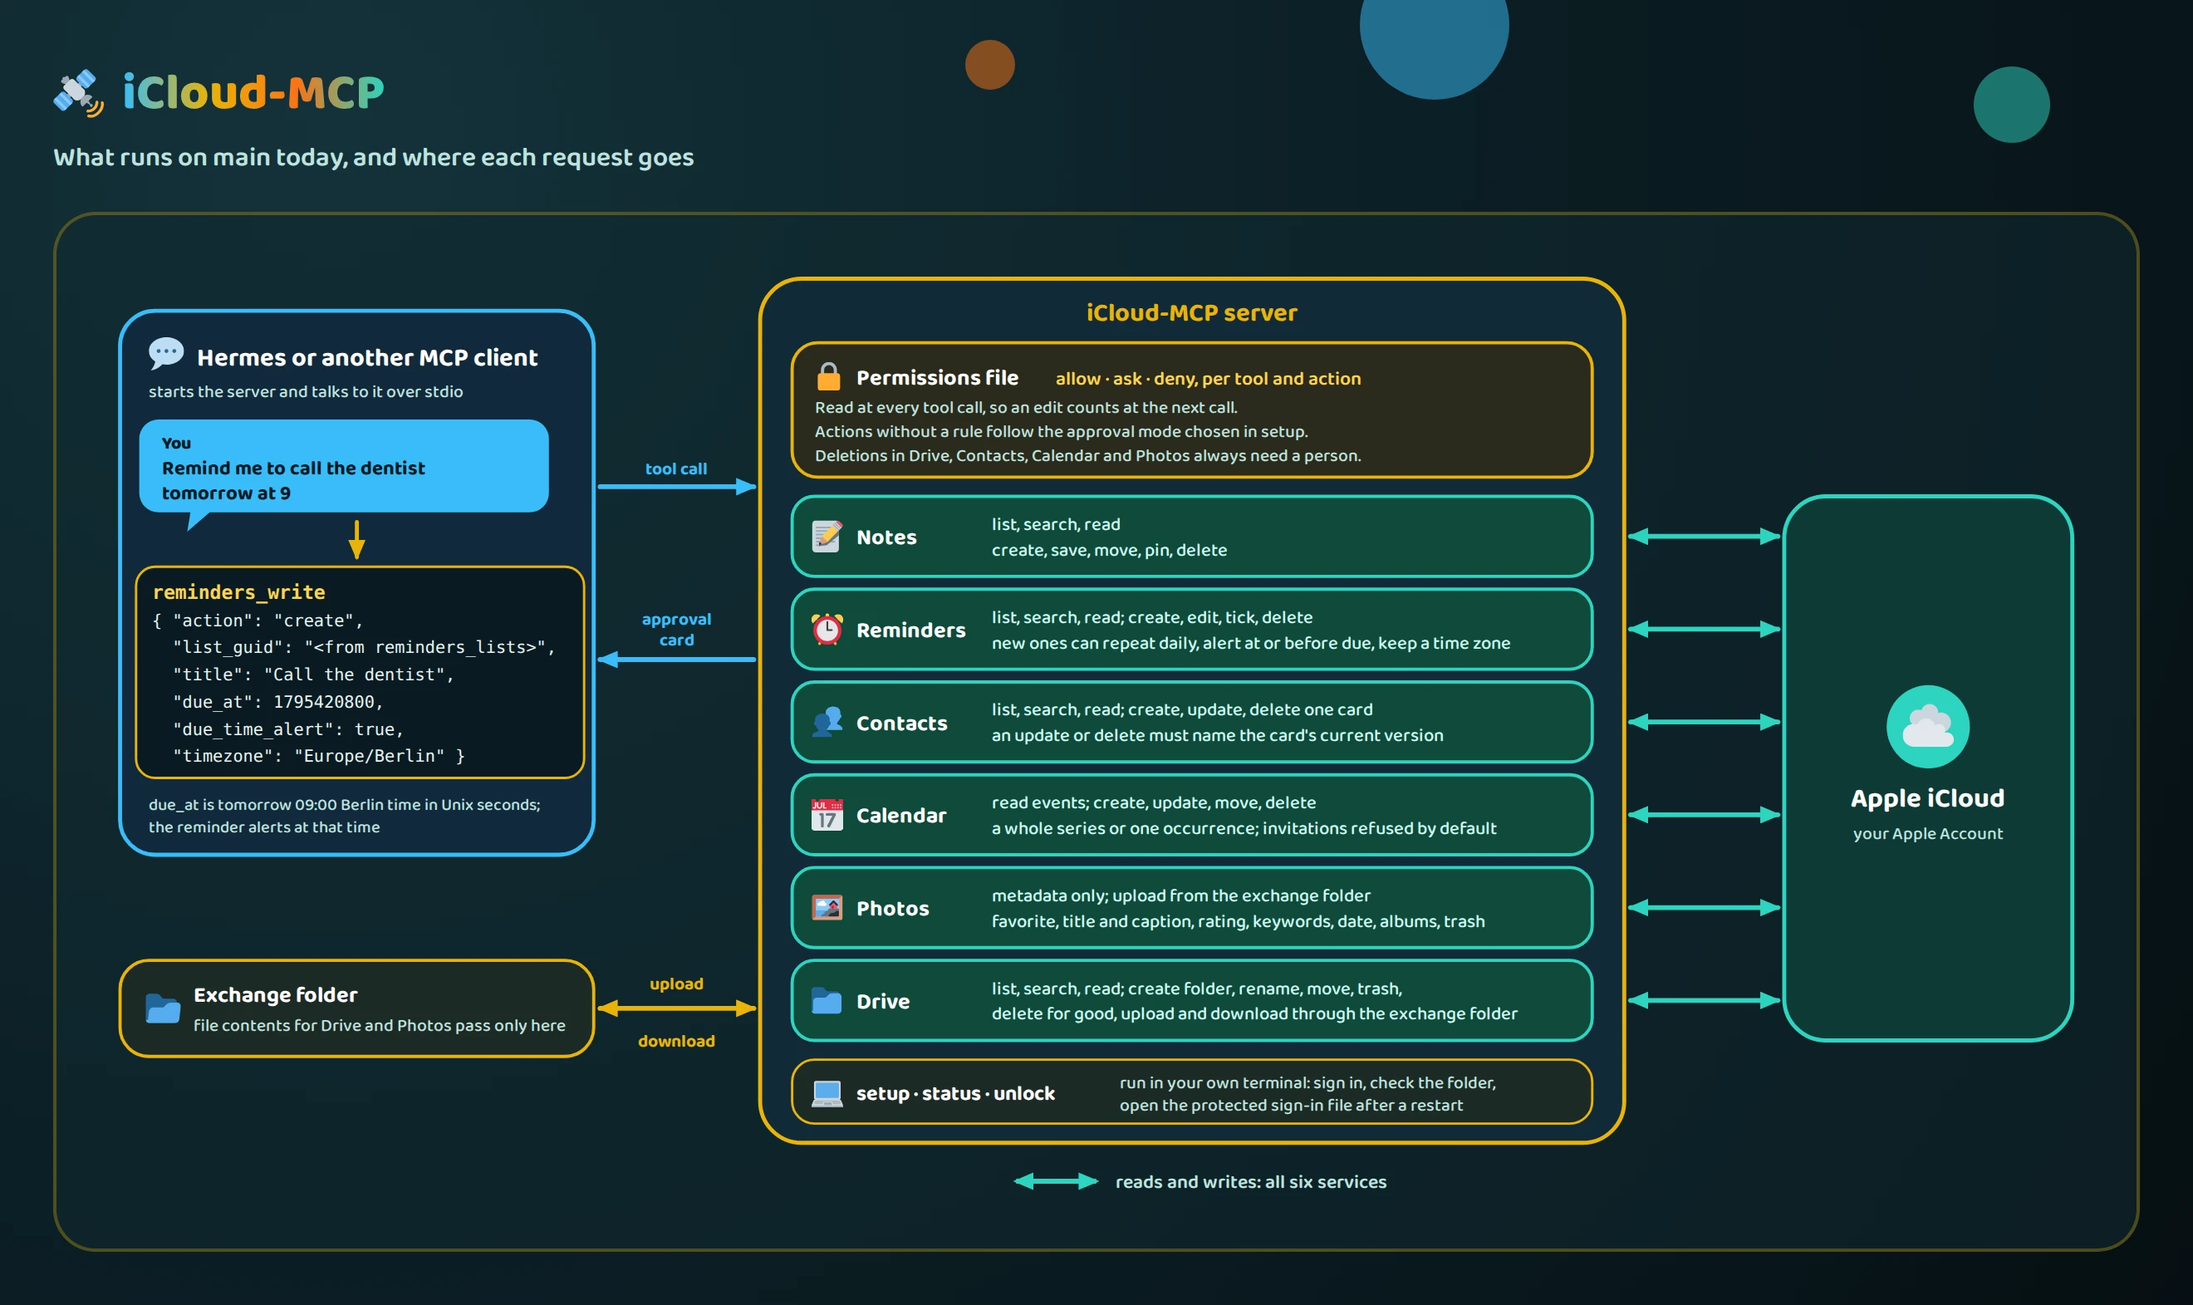
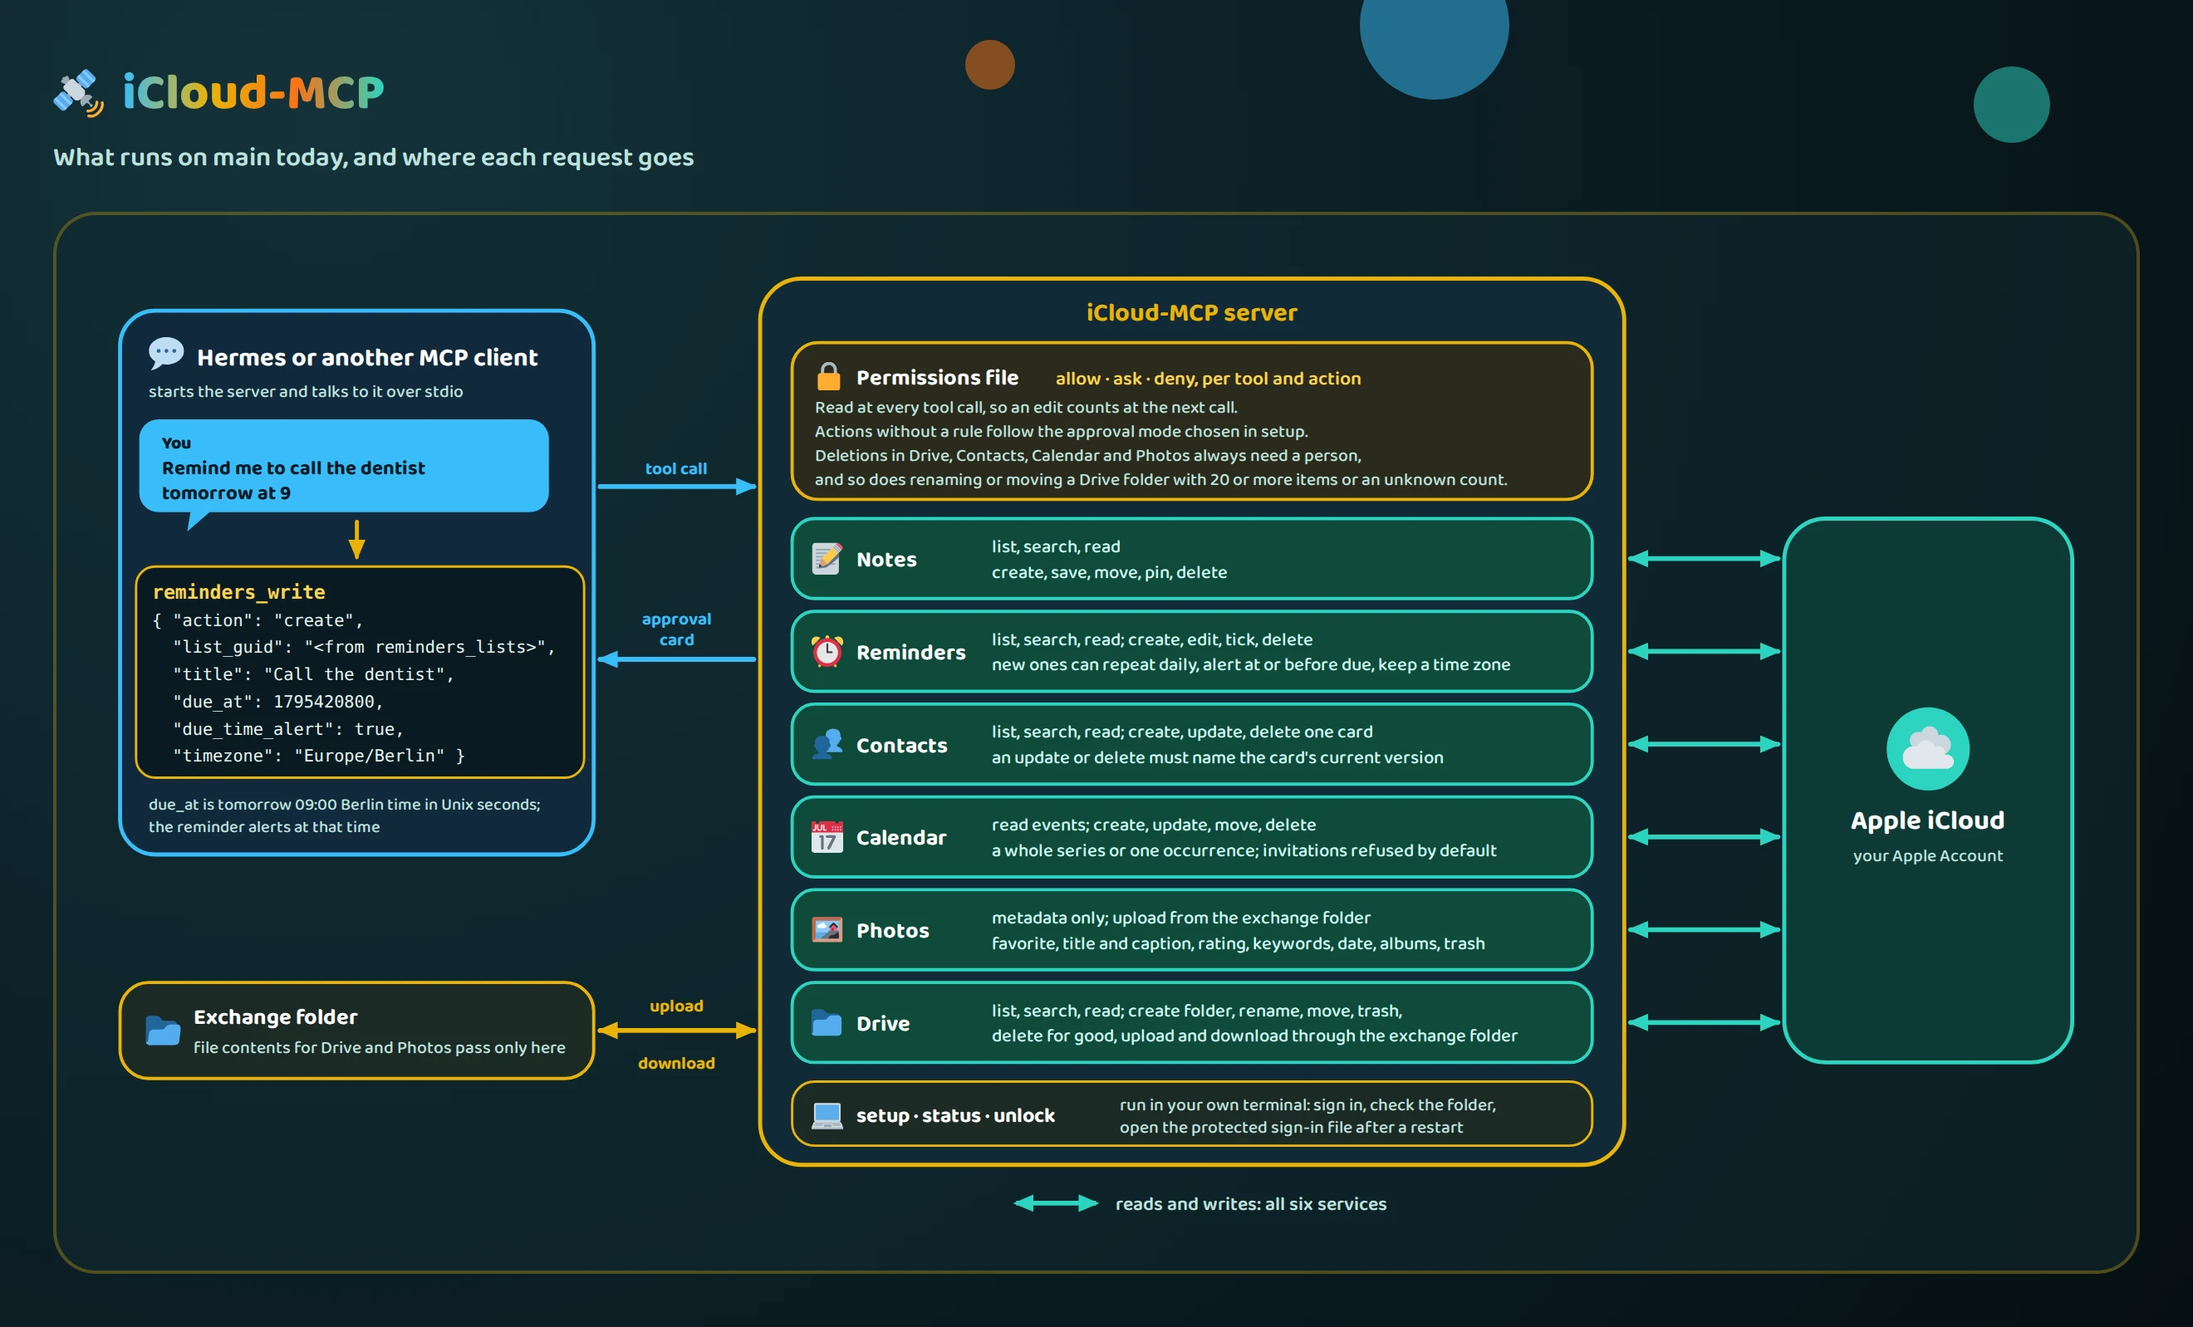
Diagram: renaming or moving a large Drive folder also needs a person

diff --git a/crates/skykeep-mcp/docs/architecture.html b/crates/skykeep-mcp/docs/architecture.html
@@ -45,7 +45,7 @@
     <p class="subtitle">What runs on main today, and where each request goes</p>
 
     <div class="diagram-container">
-      <svg viewBox="0 0 1260 606">
+      <svg viewBox="0 0 1260 620">
         <defs>
           <marker id="a-sky" markerUnits="userSpaceOnUse" markerWidth="13" markerHeight="11" refX="11" refY="5.5" orient="auto-start-reverse"><polygon points="0 0,13 5.5,0 11" fill="#38bdf8"/></marker>
           <marker id="a-teal" markerUnits="userSpaceOnUse" markerWidth="13" markerHeight="11" refX="11" refY="5.5" orient="auto-start-reverse"><polygon points="0 0,13 5.5,0 11" fill="#2dd4bf"/></marker>
@@ -82,10 +82,10 @@
 
         <!-- Exchange folder -->
         <g>
-          <rect x="20" y="446" width="296" height="60" rx="18" fill="#1d2a26" stroke="#eab308" stroke-width="2"/>
-          <image href="https://cdn.jsdelivr.net/gh/jdecked/twemoji@15.1.0/assets/svg/1f4c2.svg" x="36" y="465" width="22" height="22"/>
-          <text x="66" y="472" fill="white" font-size="14" font-weight="700">Exchange folder</text>
-          <text x="66" y="490" fill="#bfe3df" font-size="11">file contents for Drive and Photos pass only here</text>
+          <rect x="20" y="460" width="296" height="60" rx="18" fill="#1d2a26" stroke="#eab308" stroke-width="2"/>
+          <image href="https://cdn.jsdelivr.net/gh/jdecked/twemoji@15.1.0/assets/svg/1f4c2.svg" x="36" y="479" width="22" height="22"/>
+          <text x="66" y="486" fill="white" font-size="14" font-weight="700">Exchange folder</text>
+          <text x="66" y="504" fill="#bfe3df" font-size="11">file contents for Drive and Photos pass only here</text>
         </g>
 
         <!-- ===== Arrows between left column and server ===== -->
@@ -94,85 +94,86 @@
         <text x="368" y="236" fill="#38bdf8" font-size="11" font-weight="700" text-anchor="middle">approval</text>
         <text x="368" y="249" fill="#38bdf8" font-size="11" font-weight="700" text-anchor="middle">card</text>
         <line x1="416" y1="258" x2="320" y2="258" stroke="#38bdf8" stroke-width="3" stroke-linecap="round" marker-end="url(#a-sky)"/>
-        <text x="368" y="464" fill="#eab308" font-size="11" font-weight="700" text-anchor="middle">upload</text>
-        <text x="368" y="500" fill="#eab308" font-size="11" font-weight="700" text-anchor="middle">download</text>
-        <line x1="320" y1="476" x2="416" y2="476" stroke="#eab308" stroke-width="3" stroke-linecap="round" marker-start="url(#a-sand)" marker-end="url(#a-sand)"/>
+        <text x="368" y="478" fill="#eab308" font-size="11" font-weight="700" text-anchor="middle">upload</text>
+        <text x="368" y="514" fill="#eab308" font-size="11" font-weight="700" text-anchor="middle">download</text>
+        <line x1="320" y1="490" x2="416" y2="490" stroke="#eab308" stroke-width="3" stroke-linecap="round" marker-start="url(#a-sand)" marker-end="url(#a-sand)"/>
 
         <g transform="translate(60,0)">
         <!-- ===== Server ===== -->
         <g>
-          <rect x="360" y="20" width="540" height="540" rx="26" fill="#122a38" stroke="#eab308" stroke-width="2.5"/>
+          <rect x="360" y="20" width="540" height="554" rx="26" fill="#122a38" stroke="#eab308" stroke-width="2.5"/>
           <text x="630" y="46" fill="#eab308" font-size="16" font-weight="700" text-anchor="middle">iCloud-MCP server</text>
 
           <!-- Permissions file -->
-          <rect x="380" y="60" width="500" height="84" rx="16" fill="#2a2a1c" stroke="#eab308" stroke-width="2"/>
+          <rect x="380" y="60" width="500" height="98" rx="16" fill="#2a2a1c" stroke="#eab308" stroke-width="2"/>
           <image href="https://cdn.jsdelivr.net/gh/jdecked/twemoji@15.1.0/assets/svg/1f512.svg" x="394" y="72" width="18" height="18"/>
           <text x="420" y="86" fill="white" font-size="14" font-weight="700">Permissions file</text>
           <text x="545" y="86" fill="#fcd34d" font-size="12" font-weight="600">allow · ask · deny, per tool and action</text>
           <text x="394" y="104" fill="#bfe3df" font-size="11">Read at every tool call, so an edit counts at the next call.</text>
           <text x="394" y="119" fill="#bfe3df" font-size="11">Actions without a rule follow the approval mode chosen in setup.</text>
-          <text x="394" y="134" fill="#bfe3df" font-size="11">Deletions in Drive, Contacts, Calendar and Photos always need a person.</text>
+          <text x="394" y="134" fill="#bfe3df" font-size="11">Deletions in Drive, Contacts, Calendar and Photos always need a person,</text>
+          <text x="394" y="149" fill="#bfe3df" font-size="11">and so does renaming or moving a Drive folder with 20 or more items or an unknown count.</text>
 
-          <rect x="380" y="156" width="500" height="50" rx="14" fill="#0e4a3a" stroke="#2dd4bf" stroke-width="2"/>
-          <image href="https://cdn.jsdelivr.net/gh/jdecked/twemoji@15.1.0/assets/svg/1f4dd.svg" x="392" y="171.0" width="20" height="20"/>
-          <text x="420" y="186.0" fill="white" font-size="14" font-weight="700">Notes</text>
-          <text x="505" y="177.0" fill="#d1faf3" font-size="11.5">list, search, read</text>
-          <text x="505" y="193.0" fill="#d1faf3" font-size="11.5">create, save, move, pin, delete</text>
-          <rect x="380" y="214" width="500" height="50" rx="14" fill="#0e4a3a" stroke="#2dd4bf" stroke-width="2"/>
-          <image href="https://cdn.jsdelivr.net/gh/jdecked/twemoji@15.1.0/assets/svg/23f0.svg" x="392" y="229.0" width="20" height="20"/>
-          <text x="420" y="244.0" fill="white" font-size="14" font-weight="700">Reminders</text>
-          <text x="505" y="235.0" fill="#d1faf3" font-size="11.5">list, search, read; create, edit, tick, delete</text>
-          <text x="505" y="251.0" fill="#d1faf3" font-size="11.5">new ones can repeat daily, alert at or before due, keep a time zone</text>
-          <rect x="380" y="272" width="500" height="50" rx="14" fill="#0e4a3a" stroke="#2dd4bf" stroke-width="2"/>
-          <image href="https://cdn.jsdelivr.net/gh/jdecked/twemoji@15.1.0/assets/svg/1f465.svg" x="392" y="287.0" width="20" height="20"/>
-          <text x="420" y="302.0" fill="white" font-size="14" font-weight="700">Contacts</text>
-          <text x="505" y="293.0" fill="#d1faf3" font-size="11.5">list, search, read; create, update, delete one card</text>
-          <text x="505" y="309.0" fill="#d1faf3" font-size="11.5">an update or delete must name the card's current version</text>
-          <rect x="380" y="330" width="500" height="50" rx="14" fill="#0e4a3a" stroke="#2dd4bf" stroke-width="2"/>
-          <image href="https://cdn.jsdelivr.net/gh/jdecked/twemoji@15.1.0/assets/svg/1f4c5.svg" x="392" y="345.0" width="20" height="20"/>
-          <text x="420" y="360.0" fill="white" font-size="14" font-weight="700">Calendar</text>
-          <text x="505" y="351.0" fill="#d1faf3" font-size="11.5">read events; create, update, move, delete</text>
-          <text x="505" y="367.0" fill="#d1faf3" font-size="11.5">a whole series or one occurrence; invitations refused by default</text>
-          <rect x="380" y="388" width="500" height="50" rx="14" fill="#0e4a3a" stroke="#2dd4bf" stroke-width="2"/>
-          <image href="https://cdn.jsdelivr.net/gh/jdecked/twemoji@15.1.0/assets/svg/1f5bc.svg" x="392" y="403.0" width="20" height="20"/>
-          <text x="420" y="418.0" fill="white" font-size="14" font-weight="700">Photos</text>
-          <text x="505" y="409.0" fill="#d1faf3" font-size="11.5">metadata only; upload from the exchange folder</text>
-          <text x="505" y="425.0" fill="#d1faf3" font-size="11.5">favorite, title and caption, rating, keywords, date, albums, trash</text>
-          <rect x="380" y="446" width="500" height="50" rx="14" fill="#0e4a3a" stroke="#2dd4bf" stroke-width="2"/>
-          <image href="https://cdn.jsdelivr.net/gh/jdecked/twemoji@15.1.0/assets/svg/1f4c1.svg" x="392" y="461.0" width="20" height="20"/>
-          <text x="420" y="476.0" fill="white" font-size="14" font-weight="700">Drive</text>
-          <text x="505" y="467.0" fill="#d1faf3" font-size="11.5">list, search, read; create folder, rename, move, trash,</text>
-          <text x="505" y="483.0" fill="#d1faf3" font-size="11.5">delete for good, upload and download through the exchange folder</text>
+          <rect x="380" y="170" width="500" height="50" rx="14" fill="#0e4a3a" stroke="#2dd4bf" stroke-width="2"/>
+          <image href="https://cdn.jsdelivr.net/gh/jdecked/twemoji@15.1.0/assets/svg/1f4dd.svg" x="392" y="185" width="20" height="20"/>
+          <text x="420" y="200" fill="white" font-size="14" font-weight="700">Notes</text>
+          <text x="505" y="191" fill="#d1faf3" font-size="11.5">list, search, read</text>
+          <text x="505" y="207" fill="#d1faf3" font-size="11.5">create, save, move, pin, delete</text>
+          <rect x="380" y="228" width="500" height="50" rx="14" fill="#0e4a3a" stroke="#2dd4bf" stroke-width="2"/>
+          <image href="https://cdn.jsdelivr.net/gh/jdecked/twemoji@15.1.0/assets/svg/23f0.svg" x="392" y="243" width="20" height="20"/>
+          <text x="420" y="258" fill="white" font-size="14" font-weight="700">Reminders</text>
+          <text x="505" y="249" fill="#d1faf3" font-size="11.5">list, search, read; create, edit, tick, delete</text>
+          <text x="505" y="265" fill="#d1faf3" font-size="11.5">new ones can repeat daily, alert at or before due, keep a time zone</text>
+          <rect x="380" y="286" width="500" height="50" rx="14" fill="#0e4a3a" stroke="#2dd4bf" stroke-width="2"/>
+          <image href="https://cdn.jsdelivr.net/gh/jdecked/twemoji@15.1.0/assets/svg/1f465.svg" x="392" y="301" width="20" height="20"/>
+          <text x="420" y="316" fill="white" font-size="14" font-weight="700">Contacts</text>
+          <text x="505" y="307" fill="#d1faf3" font-size="11.5">list, search, read; create, update, delete one card</text>
+          <text x="505" y="323" fill="#d1faf3" font-size="11.5">an update or delete must name the card's current version</text>
+          <rect x="380" y="344" width="500" height="50" rx="14" fill="#0e4a3a" stroke="#2dd4bf" stroke-width="2"/>
+          <image href="https://cdn.jsdelivr.net/gh/jdecked/twemoji@15.1.0/assets/svg/1f4c5.svg" x="392" y="359" width="20" height="20"/>
+          <text x="420" y="374" fill="white" font-size="14" font-weight="700">Calendar</text>
+          <text x="505" y="365" fill="#d1faf3" font-size="11.5">read events; create, update, move, delete</text>
+          <text x="505" y="381" fill="#d1faf3" font-size="11.5">a whole series or one occurrence; invitations refused by default</text>
+          <rect x="380" y="402" width="500" height="50" rx="14" fill="#0e4a3a" stroke="#2dd4bf" stroke-width="2"/>
+          <image href="https://cdn.jsdelivr.net/gh/jdecked/twemoji@15.1.0/assets/svg/1f5bc.svg" x="392" y="417" width="20" height="20"/>
+          <text x="420" y="432" fill="white" font-size="14" font-weight="700">Photos</text>
+          <text x="505" y="423" fill="#d1faf3" font-size="11.5">metadata only; upload from the exchange folder</text>
+          <text x="505" y="439" fill="#d1faf3" font-size="11.5">favorite, title and caption, rating, keywords, date, albums, trash</text>
+          <rect x="380" y="460" width="500" height="50" rx="14" fill="#0e4a3a" stroke="#2dd4bf" stroke-width="2"/>
+          <image href="https://cdn.jsdelivr.net/gh/jdecked/twemoji@15.1.0/assets/svg/1f4c1.svg" x="392" y="475" width="20" height="20"/>
+          <text x="420" y="490" fill="white" font-size="14" font-weight="700">Drive</text>
+          <text x="505" y="481" fill="#d1faf3" font-size="11.5">list, search, read; create folder, rename, move, trash,</text>
+          <text x="505" y="497" fill="#d1faf3" font-size="11.5">delete for good, upload and download through the exchange folder</text>
 
           <!-- Commands in your own terminal -->
-          <rect x="380" y="508" width="500" height="40" rx="14" fill="#1d2a26" stroke="#eab308" stroke-width="1.5"/>
-          <image href="https://cdn.jsdelivr.net/gh/jdecked/twemoji@15.1.0/assets/svg/1f4bb.svg" x="392" y="518" width="20" height="20"/>
-          <text x="420" y="533" fill="white" font-size="13" font-weight="700">setup · status · unlock</text>
-          <text x="585" y="526" fill="#bfe3df" font-size="11">run in your own terminal: sign in, check the folder,</text>
-          <text x="585" y="540" fill="#bfe3df" font-size="11">open the protected sign-in file after a restart</text>
+          <rect x="380" y="522" width="500" height="40" rx="14" fill="#1d2a26" stroke="#eab308" stroke-width="1.5"/>
+          <image href="https://cdn.jsdelivr.net/gh/jdecked/twemoji@15.1.0/assets/svg/1f4bb.svg" x="392" y="532" width="20" height="20"/>
+          <text x="420" y="547" fill="white" font-size="13" font-weight="700">setup · status · unlock</text>
+          <text x="585" y="540" fill="#bfe3df" font-size="11">run in your own terminal: sign in, check the folder,</text>
+          <text x="585" y="554" fill="#bfe3df" font-size="11">open the protected sign-in file after a restart</text>
         </g>
 
         <!-- ===== Arrows between server and iCloud ===== -->
-        <line x1="904" y1="181.0" x2="996" y2="181.0" stroke="#2dd4bf" stroke-width="3" stroke-linecap="round" marker-start="url(#a-teal)" marker-end="url(#a-teal)"/>
-        <line x1="904" y1="239.0" x2="996" y2="239.0" stroke="#2dd4bf" stroke-width="3" stroke-linecap="round" marker-start="url(#a-teal)" marker-end="url(#a-teal)"/>
-        <line x1="904" y1="297.0" x2="996" y2="297.0" stroke="#2dd4bf" stroke-width="3" stroke-linecap="round" marker-start="url(#a-teal)" marker-end="url(#a-teal)"/>
-        <line x1="904" y1="355.0" x2="996" y2="355.0" stroke="#2dd4bf" stroke-width="3" stroke-linecap="round" marker-start="url(#a-teal)" marker-end="url(#a-teal)"/>
-        <line x1="904" y1="413.0" x2="996" y2="413.0" stroke="#2dd4bf" stroke-width="3" stroke-linecap="round" marker-start="url(#a-teal)" marker-end="url(#a-teal)"/>
-        <line x1="904" y1="471.0" x2="996" y2="471.0" stroke="#2dd4bf" stroke-width="3" stroke-linecap="round" marker-start="url(#a-teal)" marker-end="url(#a-teal)"/>
+        <line x1="904" y1="195" x2="996" y2="195" stroke="#2dd4bf" stroke-width="3" stroke-linecap="round" marker-start="url(#a-teal)" marker-end="url(#a-teal)"/>
+        <line x1="904" y1="253" x2="996" y2="253" stroke="#2dd4bf" stroke-width="3" stroke-linecap="round" marker-start="url(#a-teal)" marker-end="url(#a-teal)"/>
+        <line x1="904" y1="311" x2="996" y2="311" stroke="#2dd4bf" stroke-width="3" stroke-linecap="round" marker-start="url(#a-teal)" marker-end="url(#a-teal)"/>
+        <line x1="904" y1="369" x2="996" y2="369" stroke="#2dd4bf" stroke-width="3" stroke-linecap="round" marker-start="url(#a-teal)" marker-end="url(#a-teal)"/>
+        <line x1="904" y1="427" x2="996" y2="427" stroke="#2dd4bf" stroke-width="3" stroke-linecap="round" marker-start="url(#a-teal)" marker-end="url(#a-teal)"/>
+        <line x1="904" y1="485" x2="996" y2="485" stroke="#2dd4bf" stroke-width="3" stroke-linecap="round" marker-start="url(#a-teal)" marker-end="url(#a-teal)"/>
 
         <!-- ===== Apple iCloud ===== -->
         <g>
-          <rect x="1000" y="156" width="180" height="340" rx="26" fill="#0f3a36" stroke="#2dd4bf" stroke-width="2.5"/>
-          <circle cx="1090" cy="300.0" r="26" fill="#2dd4bf"/>
-          <image href="https://cdn.jsdelivr.net/gh/jdecked/twemoji@15.1.0/assets/svg/2601.svg" x="1074" y="284.0" width="32" height="32"/>
-          <text x="1090" y="350.0" fill="white" font-size="17" font-weight="700" text-anchor="middle">Apple iCloud</text>
-          <text x="1090" y="370.0" fill="#bfe3df" font-size="11" text-anchor="middle">your Apple Account</text>
+          <rect x="1000" y="170" width="180" height="340" rx="26" fill="#0f3a36" stroke="#2dd4bf" stroke-width="2.5"/>
+          <circle cx="1090" cy="314" r="26" fill="#2dd4bf"/>
+          <image href="https://cdn.jsdelivr.net/gh/jdecked/twemoji@15.1.0/assets/svg/2601.svg" x="1074" y="298" width="32" height="32"/>
+          <text x="1090" y="364" fill="white" font-size="17" font-weight="700" text-anchor="middle">Apple iCloud</text>
+          <text x="1090" y="384" fill="#bfe3df" font-size="11" text-anchor="middle">your Apple Account</text>
         </g>
 
         <!-- ===== Legend ===== -->
         <g font-size="12" font-weight="600">
-          <line x1="520" y1="584" x2="570" y2="584" stroke="#2dd4bf" stroke-width="3" marker-start="url(#a-teal)" marker-end="url(#a-teal)"/>
-          <text x="582" y="588" fill="#bfe3df">reads and writes: all six services</text>
+          <line x1="520" y1="598" x2="570" y2="598" stroke="#2dd4bf" stroke-width="3" marker-start="url(#a-teal)" marker-end="url(#a-teal)"/>
+          <text x="582" y="602" fill="#bfe3df">reads and writes: all six services</text>
         </g>
         </g>
       </svg>
